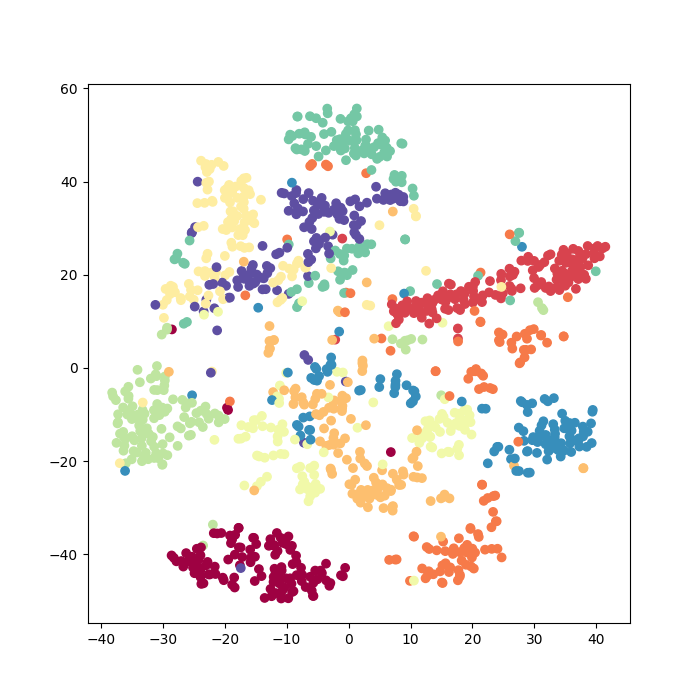
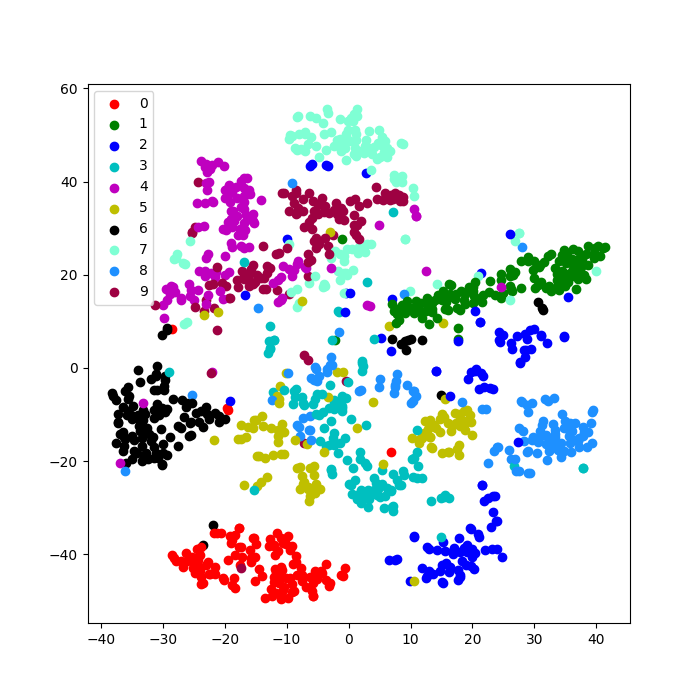
comments

diff --git a/k-means-for-MNIST-dataset/kmeans.py b/k-means-for-MNIST-dataset/kmeans.py
@@ -1,73 +1,79 @@
 from torchvision import datasets 
 import sys, random, datetime, torch, numpy as np
+import matplotlib.pyplot as plt
 
 out = open('./statistics/'+sys.argv[1]+'-means.log','w')
+samples = (np.load('./tsne/samples.npy',allow_pickle=True)).tolist()
+points = np.load('./tsne/points.npy',allow_pickle=True)
 
-def choose_init_mean(train_data,mean_vec,clusters,k):
+def choose_init_mean(train_data,mean_vec,clusters,k): # 选择初始cluster center
     random.seed(datetime.datetime.now().timestamp())
-    threshold = 60000 * random.random()
+    threshold = 60000 * random.random() # 以时间为种子生成一个随机数
     out.write('The random number is '+str(threshold)+'\n')
-    if k == 5:
+
+    if k == '5': # k为5时的策略
         mean_vec_2={}
         for i in range(5):
             clusters[i] = []
         for i in range(60000):
-            mean_vec_2[train_data[i][1]] = image2vec(train_data, i)
-            if len(mean_vec_2.keys()) == 6:
+            mean_vec_2[train_data[i][1]] = image2vec(train_data, i) # 每种label中选一个图片作为cluster center，保证不同的cluster center的label不同
+            if len(mean_vec_2.keys()) == 6: # 当选择了6个图片作为cluster center时，去掉当前选择的cluster center的上一个cluster center，这样可以使每次确定选择的label随着随机数不同而变化
                 del mean_vec_2[train_data[i-1][1]]
-                if i > threshold:
+                if i > threshold: # 当i超过随机数时确定cluster center
                     break
         idx = 0
-        for key in mean_vec_2.keys():
+        for key in mean_vec_2.keys(): # 将cluster center按照0到4编号
             mean_vec[idx]=mean_vec_2[key]
             idx+=1
-    elif k == '10':
+
+    elif k == '10': # k为10时的策略
         for i in range(10):
             clusters[i] = []
         for i in range(60000):
-            mean_vec[train_data[i][1]] = image2vec(train_data, i)
-            if len(mean_vec.keys()) == 10 and i > threshold:
+            mean_vec[train_data[i][1]] = image2vec(train_data, i) # 每种label中选一个图片作为cluster center，保证不同的cluster center的label不同
+            if len(mean_vec.keys()) == 10 and i > threshold: # 当i超过随机数且选够10个时确定cluster center
                 break
-    elif k == '20':
+    
+    elif k == '20': # k为20时的策略
         idx = 0
         mean_vec_2={}
         for i in range(20):
             clusters[i] = []
         for i in range(60000):
-            mean_vec_2[train_data[i][1]] = image2vec(train_data, i)
-            if len(mean_vec_2.keys()) == 10 and i > threshold/2:
+            mean_vec_2[train_data[i][1]] = image2vec(train_data, i) # 先选10个，每种label中选一个图片作为cluster center，保证不同的cluster center的label不同
+            if len(mean_vec_2.keys()) == 10 and i > threshold/2: # 选够10个且i大于随机数的一半时开始选后10个
                 for key in mean_vec_2.keys():
-                    mean_vec[idx]=mean_vec_2[key]
+                    mean_vec[idx]=mean_vec_2[key] # 给选定的cluster centers编号
                     idx+=1
                 mean_vec_2.clear()
                 for j in range(i+1,60000):
-                    mean_vec_2[train_data[j][1]] = image2vec(train_data, j)
+                    mean_vec_2[train_data[j][1]] = image2vec(train_data, j) # 选后10个，每种label中选一个图片作为cluster center，保证不同的cluster center的label不同
                     if len(mean_vec_2.keys()) == 10 and j > threshold:
                         break
                 break
         for key in mean_vec_2.keys():
-            mean_vec[idx]=mean_vec_2[key]
+            mean_vec[idx]=mean_vec_2[key] # 给选定的cluster centers编号
             idx+=1
 
-def image2vec(train_data,idx):
+def image2vec(train_data,idx): # 将图片向量化，这部分的处理详见实验报告
     pic = train_data[idx][0]
-    pic14 = pic.resize((14,14))
-    pic7 = pic.resize((7,7))
+    pic14 = pic.resize((14,14)) # 适当模糊化降维
+    pic7 = pic.resize((7,7)) # 适当模糊化降维
     vec = []
     for i in range(7):
         for j in range(7):
-            vec.append(6*pic7.getpixel((i,j))+0.0)
+            vec.append(6*pic7.getpixel((i,j))+0.0) # 系数6经过不断修正得到
     for i in range(14):
         for j in range(14):
             vec.append(pic14.getpixel((i,j))+0.0)
     return vec
 
-def calculate_distance(a,b):
+def calculate_distance(a,b): # 计算欧氏距离
     a = np.array(a)
     b = np.array(b)
-    return torch.dist(torch.from_numpy(a),torch.from_numpy(b),2)
+    return torch.dist(torch.from_numpy(a),torch.from_numpy(b),1)
 
-def average_vec(vecs,train_data):
+def average_vec(vecs,train_data): # 计算vecs中所有向量的均值作为新的中心
     num = len(vecs)
     output = np.zeros(245)
     for ele in vecs:
@@ -75,15 +81,30 @@ def average_vec(vecs,train_data):
     output/=num
     return output.tolist()
 
-def train(epoch,train_data,mean_vec,clusters):
-    converge = 0
+def visualize(clusters,run): # 可视化
+    print("visualizing......")
+    colors = []
+    for ele in samples: # samples为sample用来可视化的图片编号，points为这些图片降到2维后的向量，由tsne.py得到
+        for i in range(len(clusters)):
+            if ele in clusters[i]:
+                colors.append(i) # 根据聚类确定颜色
+                break
+    plt.figure(figsize=(7,7))
+    plt.scatter(points[:, 0], points[:, 1],c=colors, cmap=plt.cm.Spectral)
+    plt.savefig('./pics/visualization_'+sys.argv[1]+'-means_'+str(run)+'.png') # 本次聚类的可视化结果，ground truth可见./tsne/visualization_ground_truth.png
+    print('check the picture ./pics/visualization_'+sys.argv[1]+'-means_'+str(run)+'.png')
+    # plt.show()
+
+
+def train(epoch,train_data,mean_vec,clusters): # k-means训练过程
+    converge = 0 # 用来判断是否完全收敛
     for i in range(epoch):
         out.write('\nepoch: '+str(i+1)+'\n')
-        move = 0
+        move = 0 # 用来表示所有cluster center的移动，当move==0时完全收敛，converge = 1
         for key in clusters.keys():
-            clusters[key].clear()
-        for j in range(60000):
-            scale = 40
+            clusters[key].clear() # 清空上一次聚类的结果
+        for j in range(60000): # 遍历所有样本
+            scale = 40 ### 进度条
             m = int((j+1)*40/60000)
             a = "*" * m
             b = "." * (scale - m)
@@ -93,24 +114,24 @@ def train(epoch,train_data,mean_vec,clusters):
                 d = '  '
             if i+1 > 99:
                 d = ''
-            print("\rrunning epoch: "+str(i+1)+d+"...... {:^3.0f}%[{}->{}]".format(c,a,b),end = "")
-            vec = image2vec(train_data,j)
-            distance = calculate_distance(vec,mean_vec[0])
+            print("\rrunning epoch: "+str(i+1)+d+"...... {:^3.0f}%[{}->{}]".format(c,a,b),end = "") ### 进度条
+            vec = image2vec(train_data,j) # 向量化
+            distance = calculate_distance(vec,mean_vec[0]) # 初始化到中心距离
             cluster_number = 0
             for k in range(1,len(mean_vec.keys())):
                 new_distance = calculate_distance(vec,mean_vec[k])
-                if new_distance<distance:
+                if new_distance<distance: # 更新到中心距离，确定中心编号
                     distance = new_distance
                     cluster_number = k
-            clusters[cluster_number].append(j)
+            clusters[cluster_number].append(j) # 归类
         print('')
         for k in range(len(mean_vec.keys())):
-            a = "*" * (k+1) * int(40/len(mean_vec.keys()))
+            a = "*" * (k+1) * int(40/len(mean_vec.keys())) ### 进度条
             b = "." * (40 - (k+1) * int(40/len(mean_vec.keys())))
             c = ((k+1) / len(mean_vec.keys())) * 100
-            print("\rrenewing mean vectors:   {:^3.0f}%[{}->{}]".format(c,a,b),end = "")
+            print("\rrenewing mean vectors:   {:^3.0f}%[{}->{}]".format(c,a,b),end = "") ### 进度条
             new_k_mean = average_vec(clusters[k],train_data)
-            move+=calculate_distance(new_k_mean,mean_vec[k])
+            move+=calculate_distance(new_k_mean,mean_vec[k]) # 计算中心的移动
             mean_vec[k] = new_k_mean
         print('')
         print("the mean vector move: "+str(move))
@@ -118,7 +139,7 @@ def train(epoch,train_data,mean_vec,clusters):
         print("main label of clusters: ",end='')
         out.write("main label of clusters: ")
         count = 0
-        for j in range(len(mean_vec.keys())):
+        for j in range(len(mean_vec.keys())): # 计算每个类中最多的label
             thelist = clusters[j]
             count_max = {}
             for ele in thelist:
@@ -133,24 +154,24 @@ def train(epoch,train_data,mean_vec,clusters):
                     the_max = count_max[key]
                     main_ele = key
             print("'"+str(main_ele)+"'",end='')
-            print(':'+str(int(100*round(the_max/len(thelist),2)))+'%',end='  ')
+            print(':'+str(int(100*round(the_max/len(thelist),2)))+'%',end='  ') # 打出每个类中的准确率
             out.write("'"+str(main_ele)+"'"+':'+str(int(100*round(the_max/len(thelist),2)))+'%  ')
             for ele in thelist:
                 if train_data[ele][1]!=main_ele:
                     count+=1
-        print('\nacc: '+str((1-count/60000)*100)+'%')
+        print('\nacc: '+str((1-count/60000)*100)+'%') # 总准确率
         out.write('\nacc: '+str((1-count/60000)*100)+'%\n')
-        np.save('./clusters/run3_20_epoch'+str(i+1)+'.npy',clusters)
-        if move == 0:
+        if move == 0: # 完全收敛，结束
             print("done after epoch "+str(i+1)+" !")
             out.write("done after epoch "+str(i+1)+" !\n")
             converge = 1
             break
+        if i%5 == 0: # 每五轮打一张图片
+            visualize(clusters,i)
         print()
-    if converge == 0:
+    if converge == 0: # 200轮训完没收敛
         print("not converged yet!")
         out.write("not converged yet!\n")
-
 
 def main(argv):
     if len(sys.argv)!=2:
@@ -163,7 +184,7 @@ def main(argv):
     clusters = {}
     train_data = datasets.MNIST(root = './data',train = True, download=False)
     choose_init_mean(train_data,mean_vec,clusters,sys.argv[1])
-    train(2,train_data,mean_vec,clusters)
+    train(200,train_data,mean_vec,clusters)
     out.close()
 
 if __name__ == "__main__":

diff --git a/k-means-for-MNIST-dataset/tsne.py b/k-means-for-MNIST-dataset/tsne.py
@@ -9,7 +9,7 @@ from torchvision import datasets
 《t-SNE算法的基本思想及其Python实现》by 烟雨风渡
 """
 
-def sample(train_data):
+def sample(train_data): # 从60000个样本中按每个label的比例sample出1200个样本
     pics = {}
     samples = []
     for i in range(10):
@@ -23,10 +23,10 @@ def sample(train_data):
         num=int(num/50)
         for j in range(num):
             samples.append((pics[i])[j])
-    samples.sort()
+    samples.sort() # samples存储的是图片的编号，排序
     return samples
 
-def to_matrix(train_data,samples):
+def to_matrix(train_data,samples): # 把samples中的图片向量化后再放到一个矩阵中
     ma = []
     for idx in samples:
         pic = train_data[idx][0].resize((14,14))
@@ -43,9 +43,9 @@ def main():
     samples = sample(train_data)
     colors = []
     for ele in samples:
-        colors.append(train_data[ele][1])
+        colors.append(train_data[ele][1]) # 颜色根据label确定，ground truth
     x = to_matrix(train_data,samples)
-    ts = TSNE(n_components=2)
+    ts = TSNE(n_components=2) # 运用tsne降维
     y = ts.fit_transform(x)
     plt.scatter(y[:, 0], y[:, 1],c=colors, cmap=plt.cm.Spectral)
     plt.savefig('./tsne/visualization_ground_truth.png')
@@ -53,8 +53,8 @@ def main():
     y = np.array(y)
     samples = np.array(samples)
     colors = np.array(colors)
-    np.save("./tsne/points.npy",y)
-    np.save("./tsne/samples.npy",samples)
+    np.save("./tsne/points.npy",y) # 存储降维后的向量，kmeans.py会用到
+    np.save("./tsne/samples.npy",samples) # 存储sample的点，kmeans.py会用到
     np.save("./tsne/colors.npy",colors)
 
 if __name__ == "__main__":
